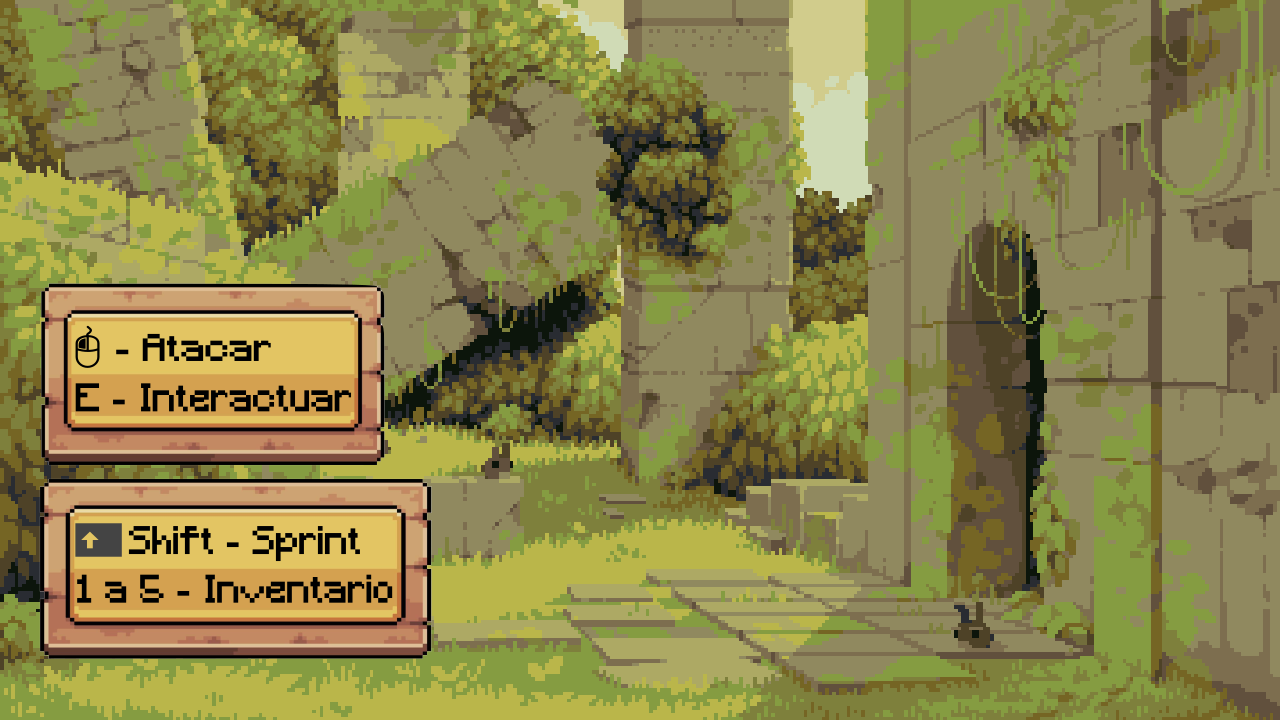
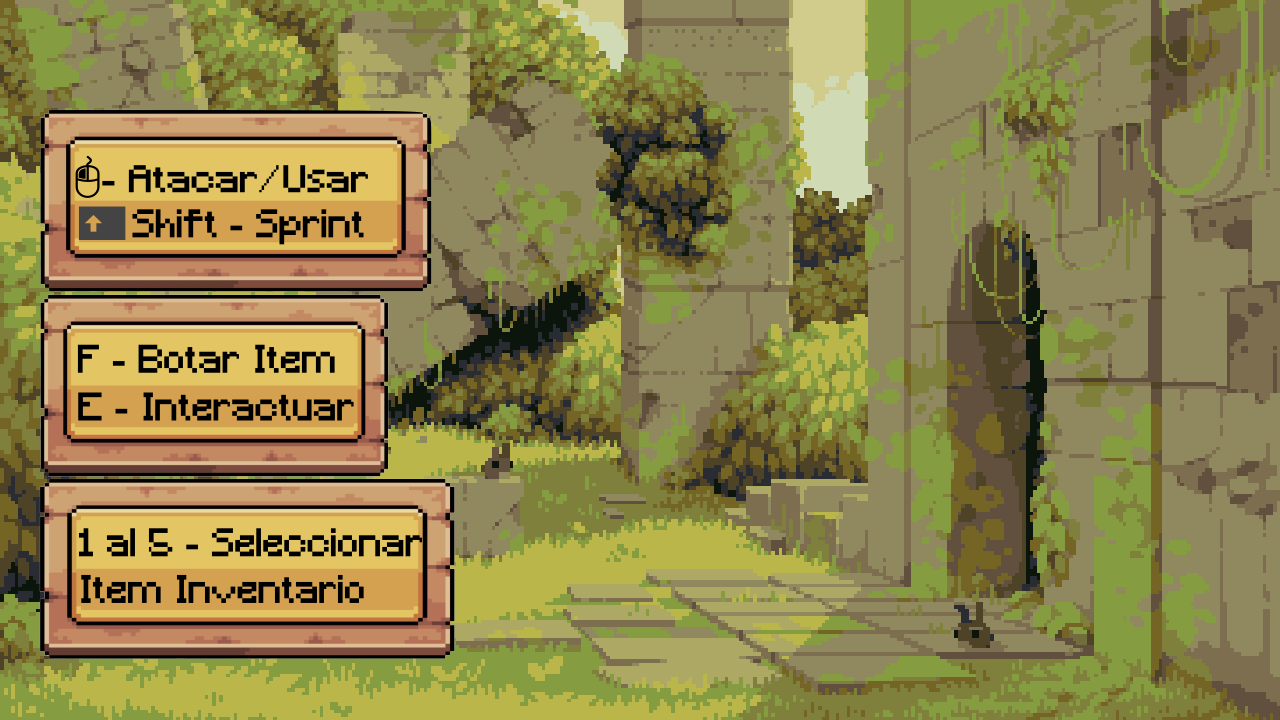
readme y pantalla inicio

Changed region(s): [[0.0312, 0.1528, 0.375, 0.9167], [0.2188, 0.8861, 0.25, 0.9167], [0.1562, 0.8861, 0.1875, 0.9167]]

diff --git a/README.md b/README.md
@@ -43,7 +43,7 @@ Haski es un juego top-down donde controlas a un personaje en un mundo con colisi
 | W/A/S/D | Mover personaje |
 | Shift | Sprint |
 | E | Recoger item |
-| Q | Soltar item |
+| F | Soltar item |
 | 1-5 | Seleccionar slot del inventario |
 | Click | Atacar / Usar item |
 
@@ -108,5 +108,5 @@ Los tilesets y sprites utilizados en este proyecto fueron obtenidos de:
 - [Raven Fantasy Icons](https://clockworkraven.itch.io/raven-fantasy-icons) - Assets de armas y pociones
 - [Pioxel Art Top Down - Basic](https://cainos.itch.io/pixel-art-top-down-basic) - Tileset y Assets usados para el diseño del mapa
 - [Pixelart ruins](https://www.reddit.com/r/PixelArt/comments/fvdl43/pixelart_ruins/) - Arte para la pantalla de inicio
-- [Pixel art of a winding dirt path through a sunlit forest](https://www.craiyon.com/en/image/Dhn_mOTBSSiD1F49ffZRjg) - Arte para la pantalla de Victoria.
-- [Graveyard](https://www.reddit.com/r/PixelArt/comments/i2x94p/graveyard/) - Arte para la pantalla de Derrota.
+- [Pixel art of a winding dirt path through a sunlit forest](https://www.craiyon.com/en/image/Dhn_mOTBSSiD1F49ffZRjg) - Arte para la pantalla de victoria.
+- [Graveyard](https://www.reddit.com/r/PixelArt/comments/i2x94p/graveyard/) - Arte para la pantalla de derrota.
